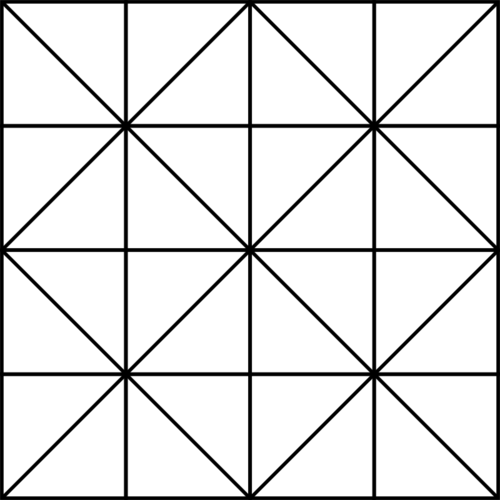
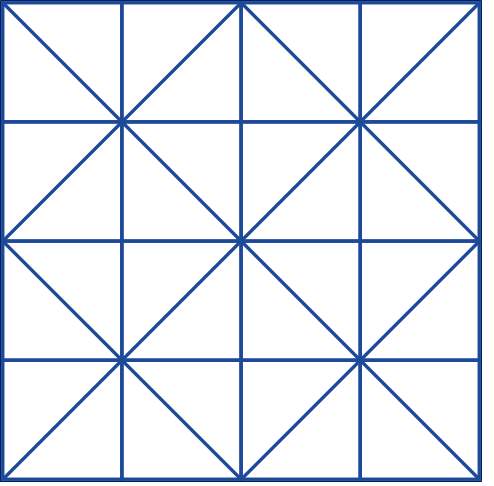
wrote logic to draw board and lines

diff --git a/bagh_chal/bagh_chal.py b/bagh_chal/bagh_chal.py
@@ -1,22 +1,49 @@
 import sys, pygame
 from pygame import Rect
+from board import Board
+from settings import Settings
 
-black = (0, 0, 0)
 # The call to pygame.init() initializes each of these modules.
 pygame.init()
-screen = pygame.display.set_mode((500, 500))
+
+# Create an instance of the class Settings
+game_settings = Settings()
+
+window = pygame.display.set_mode(
+    (game_settings.WINDOW_WIDTH, game_settings.WINDOW_HEIGHT)
+)
 pygame.display.set_caption("Bagh-Chal")
-goat = pygame.image.load("./images/goat.png")
-goatrect = goat.get_rect()
-# rect = Rect(200, 200, 100, 100)
-# rect1 = rect.get_rect()
+# create window rect to access its attribute
+window_rect = window.get_rect()
+
+# Create an instance of the class Board
+board = Board(game_settings, window_rect)
+window.fill(game_settings.WINDOW_BG_COLOR)
+CFL, CFLF = board.generate_points(game_settings)
+# print(CFLF)
+# for each in CFLF:
+#     print(each)
 while True:
     for event in pygame.event.get():
         if event.type == pygame.QUIT:
             sys.exit()
-    screen.fill(black)
 
-    screen.blit(goat, goatrect)
-    pygame.draw.rect(screen, (255, 255, 255), pygame.Rect(200, 200, 100, 100))
+    # Draw the main rectangle for the game board.
+
+    pygame.draw.rect(window, game_settings.BOARD_COLOR, board.rect)
+    # pygame.draw.line(window, game_settings.LINE_COLOR, (0, 0), (100, 100), 10)
+    for each_CFL in CFL:
+        pygame.draw.line(window, game_settings.LINE_COLOR, each_CFL[0], each_CFL[1], 3)
+    # for each_CFLF in CFLF:
+    #     print("this issfdsadfsf \n \n \n", each_CFLF)
+    #     pygame.draw.lines(window, game_settings.LINE_COLOR, each_CFLF, 3)
+    for each_CFLF in CFLF:
+        pygame.draw.line(
+            window,
+            game_settings.LINE_COLOR,
+            each_CFLF[0],
+            each_CFLF[len(each_CFLF) - 1],
+            3,
+        )
 
     pygame.display.flip()

diff --git a/bagh_chal/board.py b/bagh_chal/board.py
@@ -1,0 +1,56 @@
+import pygame
+import os
+
+
+class Board:
+    def __init__(self, game_settings, window_rect) -> None:
+        self.rect = pygame.Rect(
+            0,
+            0,
+            game_settings.BOARD_WIDTH,
+            game_settings.BOARD_HEIGHT,
+        )
+
+        # Place the Board at the center (as same as the window)
+        self.rect.center = window_rect.center
+
+    def draw_lines(self) -> None:
+        pygame.draw.lines()
+
+    def generate_points(self, game_settings) -> None:
+        # Coordinate of top left corner of the game board in (x, y)
+        starting_point = (self.rect.left, self.rect.top)
+        length = game_settings.BOARD_WIDTH
+
+        coordinates = []
+        JUMP_VALUE = int(length / 4)
+        x, y = starting_point
+
+        for i in range(0, 5):
+            row = []
+            for j in range(0, 5):
+                row.append((x, y))
+                y += JUMP_VALUE
+
+            coordinates.append(row)
+            x += JUMP_VALUE
+            y = starting_point[1]
+
+        # print(coordinates)
+        # coordinate for lines
+        CFL = []
+        for each_row in coordinates:
+            CFL.append((each_row[0], each_row[len(each_row) - 1]))
+        CFLF = []
+        index = 0
+        for i in range(0, 5):
+            CFL2 = []
+            for each_row in coordinates:
+                print(each_row[index])
+                CFL2.append(each_row[index])
+
+            CFLF.append(CFL2)
+            index += 1
+
+        print(CFLF)
+        return CFL, CFLF

diff --git a/bagh_chal/settings.py b/bagh_chal/settings.py
@@ -1,0 +1,17 @@
+"""A class to store all the settings and values for the game."""
+
+
+class Settings:
+    def __init__(self) -> None:
+        # Initialize settings for the game.
+        # screen settings
+        self.WINDOW_WIDTH = 800
+        self.WINDOW_HEIGHT = 800
+        self.WINDOW_BG_COLOR = (255, 255, 255)
+        # board settings
+        self.BOARD_WIDTH = 600
+        self.BOARD_HEIGHT = 600
+        self.BOARD_COLOR = (255, 255, 255)
+
+        # lines settings
+        self.LINE_COLOR = (0, 0, 0)

diff --git a/test.py b/test.py
@@ -1,0 +1,15 @@
+start_point = (0, 0)
+
+length = 100
+matrix = []
+add_value = int(length / 4)
+x = start_point[0]
+y = start_point[1]
+row = []
+for i in range(0, 5):
+
+    for i in range(0, 5):
+        row.append((x, y))
+        y += add_value
+        
+	matrix.append(row)
